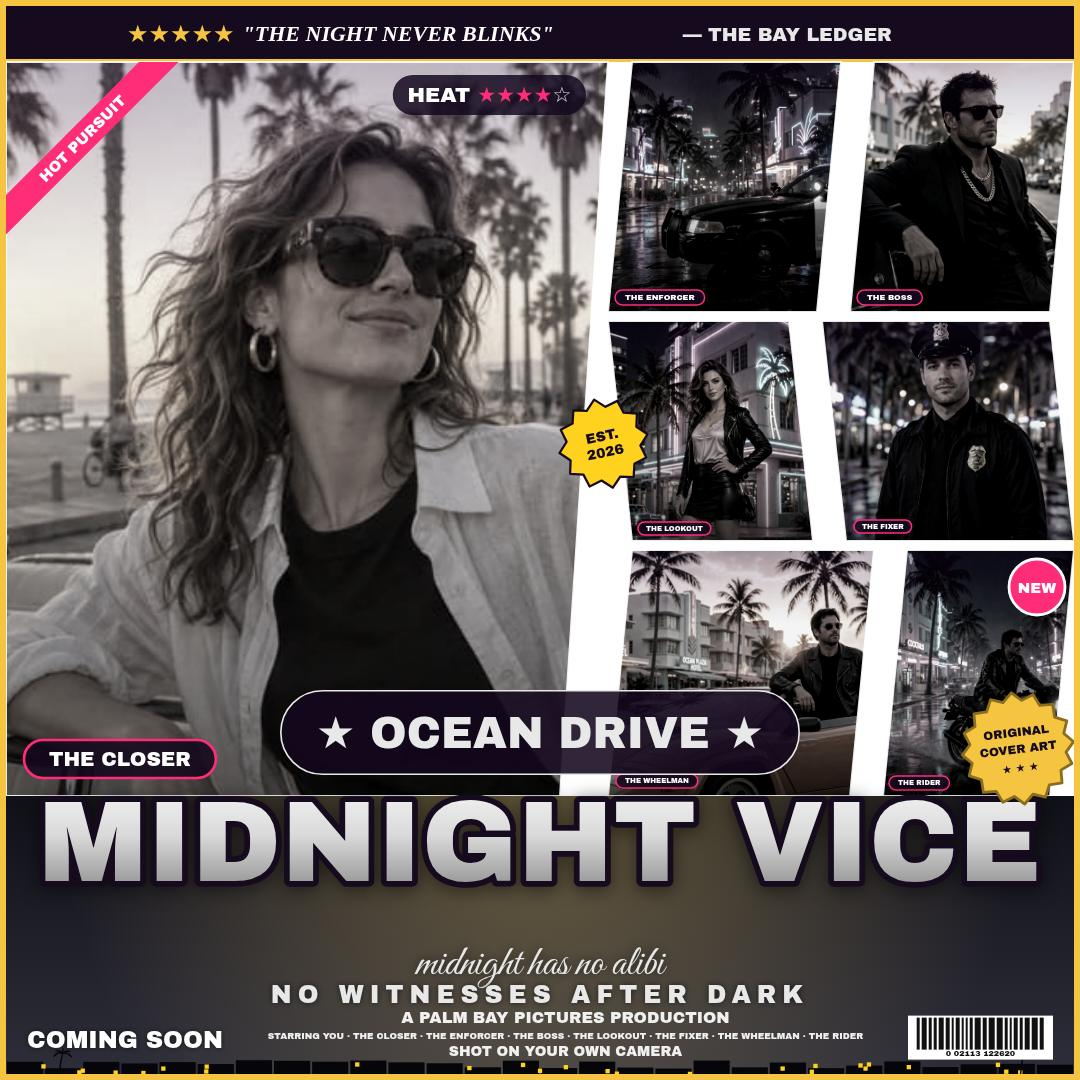
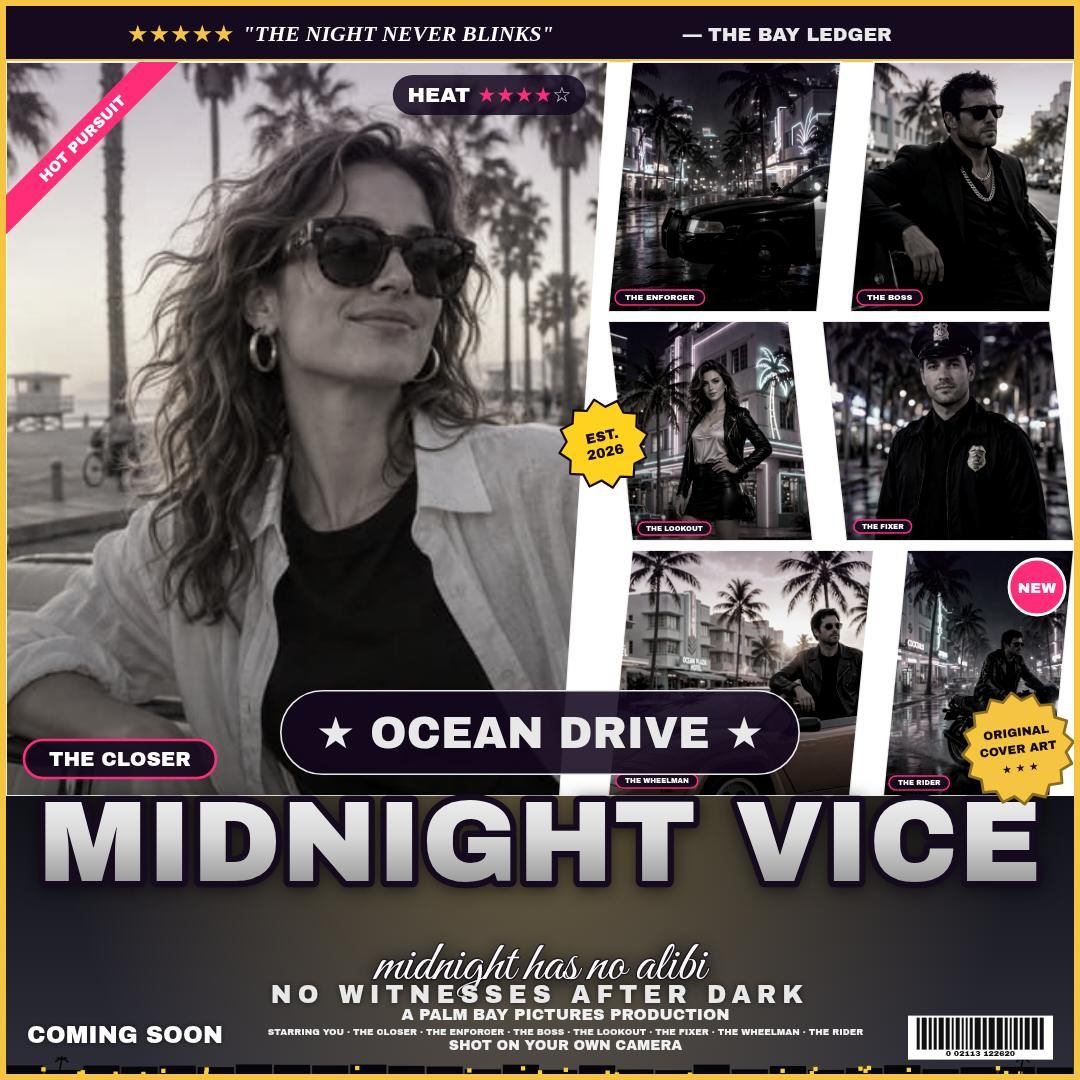
v2 fix2: bigger high-contrast script subtitle, deeper 3D title, billing margin

Changed region(s): [[0.0306, 0.8556, 0.7944, 1.0], [0.8861, 0.9778, 0.9778, 1.0], [0.7944, 0.9778, 0.8556, 1.0]]

diff --git a/app/src/cover.js b/app/src/cover.js
@@ -17,7 +17,7 @@ export const GRADES = {
     filter: 'sepia(0.20) saturate(1.15)',
     accent: '#ffd21f',
     glow: 'rgba(255,45,120,0.55)',
-    titleStops: [[0, '#ffe14d'], [0.18, '#fff6b0'], [0.55, '#ff7a1a'], [1, '#ff2d78']],
+    titleStops: [[0, '#ffe14d'], [0.18, '#fff6b0'], [0.5, '#ff7a1a'], [0.8, '#ff2d78'], [1, '#c026d3']],
     bannerStops: [[0, '#ff2d78'], [0.55, '#ff5e3a'], [1, '#ffb347']],
     skyline: '#1a0b2e',
   },
@@ -26,7 +26,7 @@ export const GRADES = {
     filter: '',
     accent: '#00f0ff',
     glow: 'rgba(255,45,212,0.55)',
-    titleStops: [[0, '#fff06a'], [0.5, '#ff9a1f'], [1, '#ff2dd4']],
+    titleStops: [[0, '#fff06a'], [0.45, '#ff9a1f'], [0.8, '#ff2dd4'], [1, '#8b5cf6']],
     bannerStops: [[0, '#2b0a4e'], [0.55, '#7a0f6e'], [1, '#ff2dd4']],
     skyline: '#0d0218',
   },
@@ -276,7 +276,7 @@ function drawPalm(ctx, x, y, s, color) {
 
 /** Skyline silhouette along the bottom of the banner: dark buildings, lit windows, palms. */
 function drawSkyline(ctx, b, grade, w) {
-  const stripH = b.h * 0.05;
+  const stripH = b.h * 0.035;
   const baseY = b.y + b.h;
   ctx.save();
   ctx.fillStyle = grade.skyline;
@@ -420,11 +420,12 @@ function drawTitleBlock(ctx, L, state, grade, w) {
   ctx.shadowBlur = size * 0.16;
   ctx.shadowOffsetY = size * 0.03;
   ctx.strokeStyle = '#160a1e';
-  ctx.lineWidth = size * 0.10;
+  ctx.lineWidth = size * 0.11;
   ctx.strokeText(title, cx, baseline);
-  ctx.shadowColor = 'transparent';
-  ctx.shadowBlur = 0;
-  ctx.shadowOffsetY = 0;
+  // Soft dark drop shadow under the fill, for a more three-dimensional title.
+  ctx.shadowColor = 'rgba(20,8,30,0.5)';
+  ctx.shadowBlur = size * 0.07;
+  ctx.shadowOffsetY = size * 0.045;
   ctx.fillStyle = grad;
   ctx.fillText(title, cx, baseline);
   ctx.restore();
@@ -452,17 +453,24 @@ function drawTitleBlock(ctx, L, state, grade, w) {
     ctx.restore();
   }
 
-  // Script subtitle: the real script face under the title, kept in the case it was written.
+  // Script subtitle: the real script face under the title, kept in the case it was
+  // written. Bigger and white with a dark outline + soft shadow, so it pops off the
+  // bright banner gradient instead of fading into it.
   if (scriptSub) {
-    const scSize = Math.max(14, Math.round(L.banner.h * 0.15));
+    const scSize = Math.max(14, Math.round(L.banner.h * 0.20));
     ctx.save();
     ctx.font = scriptFont(scSize);
     ctx.textAlign = 'center';
     ctx.textBaseline = 'alphabetic';
-    ctx.shadowColor = 'rgba(0,0,0,0.65)';
-    ctx.shadowBlur = scSize * 0.25;
-    ctx.fillStyle = grade.accent;
-    ctx.fillText(scriptSub, cx, L.collageBottom + L.banner.h * 0.64);
+    ctx.lineJoin = 'round';
+    ctx.shadowColor = 'rgba(0,0,0,0.7)';
+    ctx.shadowBlur = scSize * 0.3;
+    ctx.shadowOffsetY = scSize * 0.05;
+    ctx.strokeStyle = 'rgba(20,8,30,0.6)';
+    ctx.lineWidth = scSize * 0.05;
+    ctx.strokeText(scriptSub, cx, L.collageBottom + L.banner.h * 0.66);
+    ctx.fillStyle = '#ffffff';
+    ctx.fillText(scriptSub, cx, L.collageBottom + L.banner.h * 0.66);
     ctx.restore();
   }
 
@@ -524,9 +532,9 @@ function drawBilling(ctx, L, state, grade, w) {
   const line1 = 'A PALM BAY PICTURES PRODUCTION';
   const line2 = roles.length ? `STARRING YOU · ${roles.join(' · ')}` : '';
   const line3 = 'SHOT ON YOUR OWN CAMERA';
-  const y1 = L.collageBottom + b.h * 0.815;
-  const y2 = L.collageBottom + b.h * 0.875;
-  const y3 = L.collageBottom + b.h * 0.935;
+  const y1 = L.collageBottom + b.h * 0.805;
+  const y2 = L.collageBottom + b.h * 0.86;
+  const y3 = L.collageBottom + b.h * 0.915;
   const sidePad = Math.round(b.w * 0.02);
 
   // COMING SOON, left, vertically centred on the three billing lines.
